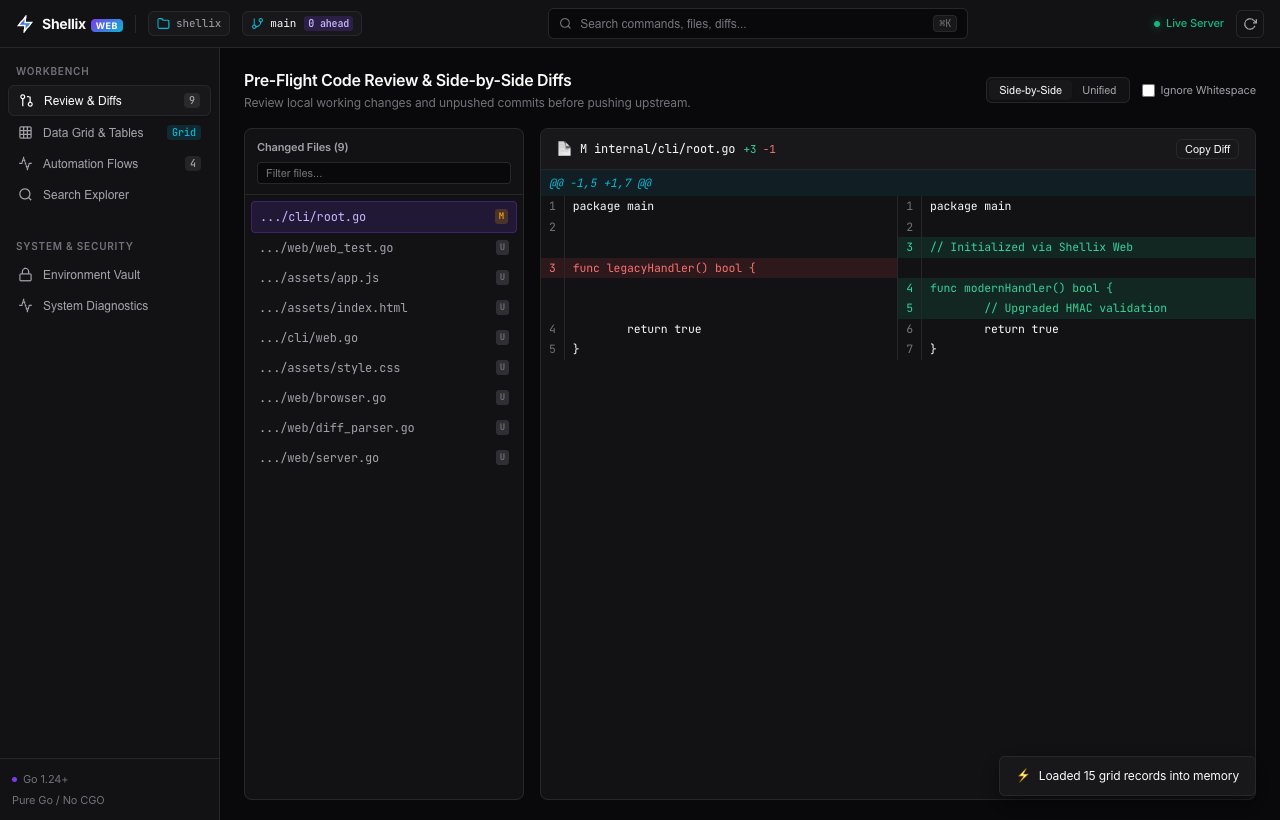
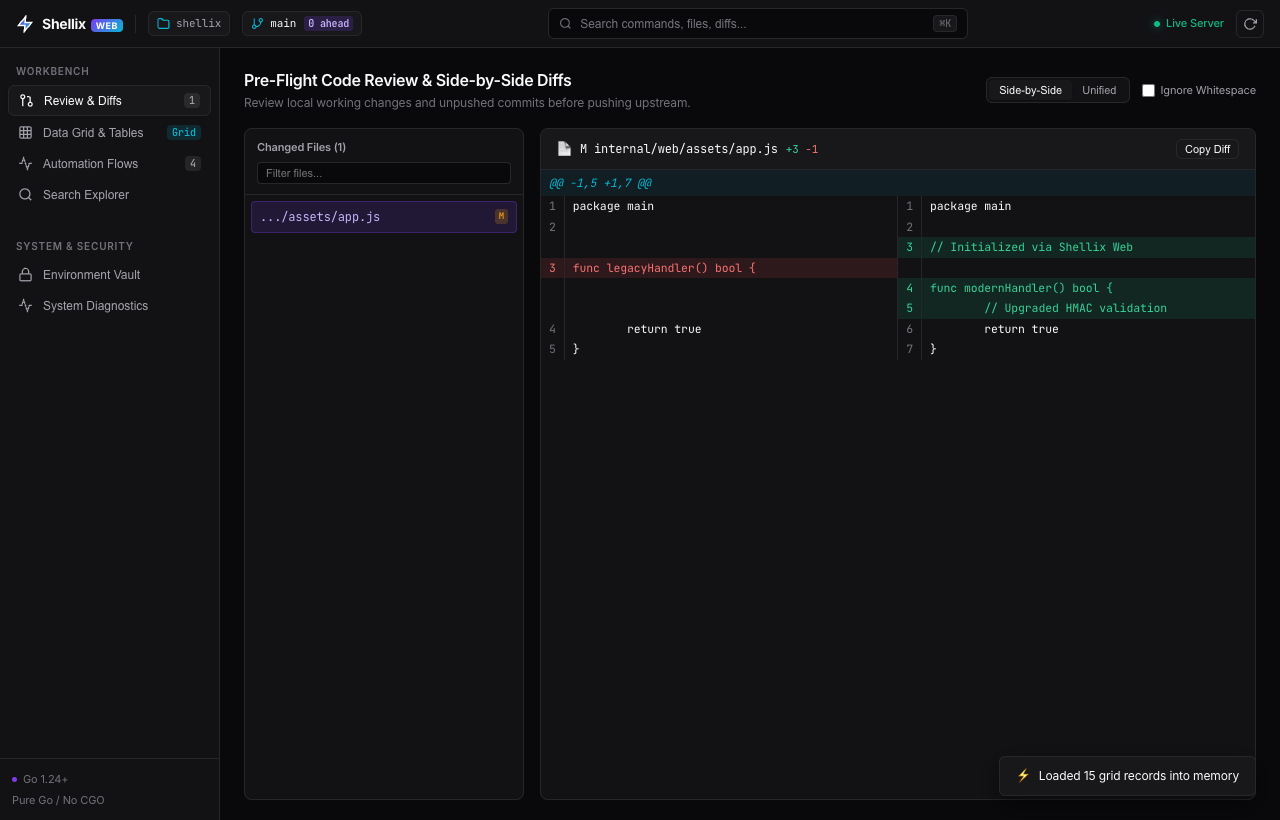
docs: add screenshots for web workbench review, virtual data grid, and flow waves

diff --git a/internal/web/assets/app.js b/internal/web/assets/app.js
@@ -78,6 +78,12 @@
     loadGitStatus();
     loadFlows();
     loadGridSampleData();
+
+    // Check initial hash route
+    const hash = window.location.hash.replace('#', '');
+    if (hash && ['review', 'grid', 'flow', 'search', 'vault', 'doctor'].includes(hash)) {
+      switchTab(hash);
+    }
   });
 
   // =========================================================================
